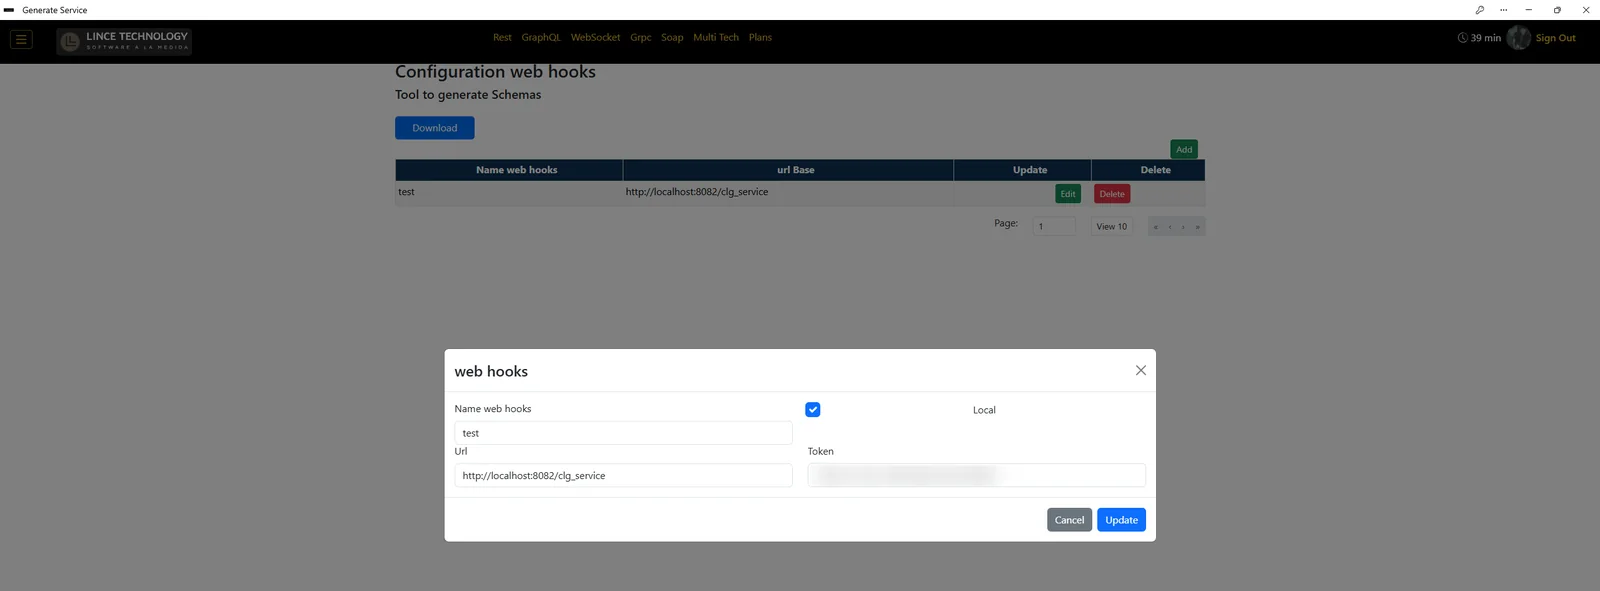
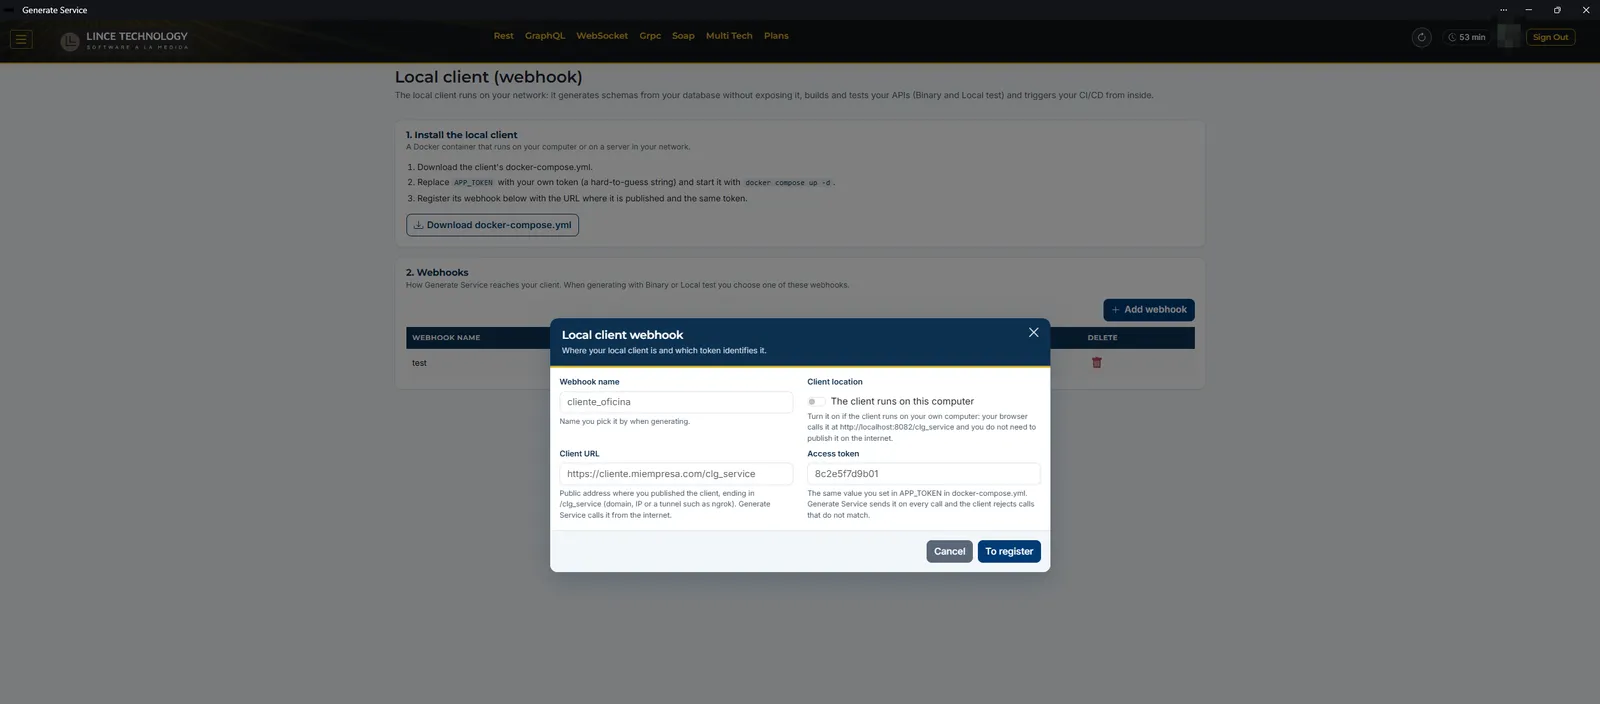
Guía: capturas de la interfaz nueva de Generate Service
- Capturas nuevas en Primeros pasos, Crear cuenta, Tu primera API REST, Datasources, Cliente local,
  Variables de entorno, CI/CD, Modos de generación, Créditos y planes, Eventos y Multi Tech.
- Multi Tech: una captura por paso del asistente y la lista de métodos.
- Créditos y planes: factura firmada, Mis facturas y verificación en /verificar.
- Textos al día con la interfaz: Cotizar, Procedimientos → Editar, las siete entregas
  (Binario, Prueba local, Solo esquemas, Código fuente, CI/CD…), Cliente local (webhook)
  y las acciones de Operaciones.
- Datos sensibles ocultos en las capturas: foto de perfil y correo del receptor de la factura.

Changed region(s): [[0.25, 0.3655, 0.75, 0.9442], [0.0, 0.0, 1.0, 0.3655]]

diff --git a/app/components/guia/guiaData.js b/app/components/guia/guiaData.js
@@ -37,6 +37,7 @@ export const capitulos = [
         bloques: [
           { p: "Generate Service convierte la lógica que ya tienes en tu base de datos —procedimientos, funciones, packages y queries— en **microservicios Spring Boot listos para producción**. Tú eliges qué publicar, en qué tecnología y cómo quieres recibirlo; la plataforma escribe el proyecto completo por ti." },
           { flujo: ["Tu base de datos o tu esquema", "Eliges qué publicar", "Generate Service genera", "Recibes tu microservicio"] },
+          { img: "/images/guia/portada.webp", alt: "Portada de Generate Service: de tus fuentes de datos a APIs listas" },
         ],
       },
       {
@@ -94,7 +95,7 @@ export const capitulos = [
         bloques: [
           { p: "Entra a [generate-service.com](https://generate-service.com) y elige cómo iniciar sesión:" },
           { lista: ["**Google** o **GitHub**: un clic, sin formularios.", "**Correo electrónico**: completa tus datos y confirma el código que te llega por correo."] },
-          { img: "/images/login.png", alt: "Pantalla de inicio de sesión de Generate Service" },
+          { img: "/images/guia/login.webp", alt: "Ventana de inicio de sesión de Generate Service" },
         ],
       },
       {
@@ -161,31 +162,34 @@ export const capitulos = [
             ["Origen", "DATABASE", "DATABASE usa un datasource; API_SOURCE usa un archivo de esquema."],
             ["Tipo de base de datos", "MariaDB", "Motor de tu base."],
           ] } },
-          { img: "/images/src/generate-api-rest.png", alt: "Formulario del módulo REST con los datos del proyecto" },
+          { img: "/images/guia/generate-api-rest.webp", alt: "Módulo REST: proyecto, métodos a generar y panel «Cómo recibir tu API»" },
         ],
       },
       {
         titulo: "3. Elige el origen: datasource o archivo de esquema",
         bloques: [
-          { p: "**Con datasource:** selecciona la conexión y el esquema (owner), y en **choose procedure** pulsa **Edit**. Verás un árbol con packages, procedimientos y funciones." },
-          { img: "/images/src/SelectPLSql.png", alt: "Árbol de selección de procedimientos y funciones" },
-          { p: "**Con archivo de esquema:** elige API_SOURCE y adjunta el archivo. El proyecto de prueba ya trae esquemas listos en la carpeta `schemas/` de cada motor, o puedes generarlos con el cliente local." },
-          { img: "/images/test/UploadFileSchemmaInGenerateService.png", alt: "Adjuntar un archivo de esquema en Generate Service" },
+          { p: "**Con datasource:** selecciona la conexión y el esquema (owner), y en **Procedimientos** pulsa **Editar**. Verás un árbol con packages, procedimientos y funciones." },
+          { img: "/images/guia/elegir-procedimiento.webp", alt: "Árbol de selección de procedimientos y funciones" },
+          { p: "**Con archivo de esquema:** elige API_SOURCE, pulsa el ícono de agregar y, en la ventana **Origen de datos del método**, sube el archivo con **Subir archivo**. El proyecto de prueba ya trae esquemas listos en la carpeta `schemas/` de cada motor, o puedes generarlos con el cliente local." },
+          { img: "/images/guia/origen-esquema.webp", alt: "Ventana Origen de datos del método con la carga de un archivo de esquema" },
         ],
       },
       {
         titulo: "4. Selecciona qué publicar",
         bloques: [
-          { p: "Cada objeto que marques se convierte en un endpoint. También puedes escribir tus propias queries con parámetros:" },
+          { p: "Cada objeto que marques se convierte en un endpoint. También puedes escribir tus propias queries con **Agregar query**: una sola sentencia `SELECT`, `INSERT`, `UPDATE` o `DELETE` por método, con los parámetros escritos como `:nombre`:" },
           { codigo: "SELECT last_name, first_name FROM owner.person WHERE email = :param_email" },
-          { img: "/images/test/RegisterEndpointRestByProcesdure.png", alt: "Endpoints registrados a partir de procedimientos" },
+          { img: "/images/guia/agregar-query.webp", alt: "Agregar un método desde una consulta SQL, con plantillas y el formato de la consulta" },
+          { p: "Las queries agregadas quedan en una lista dentro de la ventana: pasa el cursor sobre una para ver su SQL, o quítala con la papelera. Pasan a la tabla junto con los procedimientos al pulsar **Agregar**." },
+          { img: "/images/guia/query-agregada.webp", alt: "Lista de queries agregadas con su tipo" },
+          { img: "/images/guia/metodos-a-generar.webp", alt: "Tabla Métodos a generar con los procedimientos elegidos" },
         ],
       },
       {
         titulo: "5. Elige el modo y genera",
         bloques: [
-          { p: "Debajo de la tabla eliges el modo: **Build, Test, Schema, Src, devops, devops_test o devops_src**. Marca **Test** para que tu cliente local compile y levante la API en tu máquina (necesitas el [cliente local configurado](/generate-service/guia/cliente-local/)). Si prefieres el código, marca **Src**; si quieres el ejecutable, **Build**. Al pasar el mouse sobre el botón verás cuántos créditos consumirá." },
-          { img: "/images/test/SelectWebHookAndSendGenerate-service-client.png", alt: "Seleccionar el webhook del cliente local y generar" },
+          { p: "En **Cómo recibir tu API** eliges la entrega: **Binario, Prueba local, Solo esquemas, Código fuente, CI/CD, CI/CD + prueba o CI/CD + código**; al pasar el cursor sobre cada una ves qué entrega y, sobre el botón, los créditos. Marca **Prueba local** para que tu cliente local compile y levante la API en tu máquina (necesitas el [cliente local configurado](/generate-service/guia/cliente-local/)). Si prefieres el código, marca **Src**; si quieres el ejecutable, **Build**. Al pasar el mouse sobre el botón verás cuántos créditos consumirá." },
+          { img: "/images/guia/modo-entrega.webp", alt: "Panel Cómo recibir tu API con las siete entregas" },
         ],
       },
       {
@@ -224,18 +228,17 @@ export const capitulos = [
             ["Service Name / base de datos", "En Oracle, el *service name*; en los demás motores, el nombre de la base."],
             ["Esquemas", "Los esquemas (owners) que quieres explorar."],
           ] } },
-          { img: "/images/config/DatasourceConfig.png", alt: "Formulario de configuración de un datasource" },
+          { img: "/images/guia/config-datasource.webp", alt: "Formulario de un datasource Oracle con la ayuda de cada campo" },
         ],
       },
       {
         titulo: "Prueba y guarda",
         bloques: [
           { pasos: [
-            { titulo: "Prueba la conexión", texto: "Usa **Prueba de conexión**. Si es correcta, verás «Conexión exitosa»." },
+            { titulo: "Prueba la conexión", texto: "Usa **Probar conexión**. Si es correcta, verás «Conexión exitosa» y la lista de esquemas disponibles." },
             { titulo: "Elige los esquemas", texto: "Selecciona los esquemas que quieres usar al generar." },
             { titulo: "Guarda", texto: "El datasource queda disponible en todos los módulos de generación." },
           ] },
-          { img: "/images/guia/datasource-conexion-exitosa.webp", alt: "Datasource Oracle con la prueba de conexión exitosa y la lista de esquemas" },
           { nota: "Puedes registrar varios datasources (desarrollo, pruebas, distintos motores) y elegir cuál usar en cada generación.", tipo: "info" },
         ],
       },
@@ -271,8 +274,8 @@ export const capitulos = [
       {
         titulo: "1. Instala el cliente",
         bloques: [
-          { p: "En la plataforma, menú lateral → **Configuraciones** → **Client webhook**, pulsa **Download** («Tool to generate Schemas») para descargar el `docker-compose.yml` del cliente, y levántalo:" },
-          { img: "/images/test/DownLoadClientGenerateService.png", alt: "Descarga del cliente local desde la plataforma" },
+          { p: "En la plataforma, menú lateral → **Configuraciones** → **Cliente local (webhook)**, pulsa **Descargar docker-compose.yml** y levanta el cliente:" },
+          { img: "/images/guia/cliente-instalar.webp", alt: "Instalación del cliente local: los tres pasos y la descarga del docker-compose.yml" },
           { codigo: "docker compose up -d" },
           { img: "/images/test/RunClientGenerateService.png", alt: "Cliente local en ejecución" },
         ],
@@ -302,7 +305,7 @@ export const capitulos = [
             ["URL", "Dirección del cliente."],
             ["Token", "Clave que valida que los envíos vienen de tu cuenta. Trátala como una contraseña."],
           ] } },
-          { img: "/images/guia/config-client-webhook.webp", alt: "Registro del webhook del cliente local (token oculto)" },
+          { img: "/images/guia/config-client-webhook.webp", alt: "Página del cliente local: instalación, webhooks y el registro de un webhook" },
         ],
       },
       {
@@ -442,10 +445,10 @@ export const capitulos = [
             ["Nombre", "Nombre de la variable, por ejemplo `DB_MARIADB_HOST`."],
             ["Valor", "El valor que quieres usar."],
             ["Descripción", "Para qué sirve, como referencia."],
-            ["**Activo**", "Escribe el valor en el archivo `.env` del proyecto generado."],
-            ["**Propiedad activa**", "Usa el valor como predeterminado dentro de `application.properties`."],
+            ["**En el .env**", "Escribe el valor en el archivo `.env` del proyecto generado. Es lo recomendado, sobre todo para contraseñas."],
+            ["**En el código**", "Usa el valor como predeterminado dentro de `application.properties`. Evítalo con contraseñas o tokens."],
           ] } },
-          { img: "/images/guia/variables-entorno.webp", alt: "Variables de entorno con las columnas Activo y Propiedad activa" },
+          { img: "/images/guia/variables-entorno.webp", alt: "Variables de entorno con la explicación de cómo se aplican" },
         ],
       },
       {
@@ -495,7 +498,9 @@ export const capitulos = [
             ["Parámetros", "Variables adicionales que tu pipeline espera."],
             ["Webhook (opcional)", "Si tu CI/CD es interno, el cliente local hace de puente."],
           ] } },
-          { img: "/images/ci-cd/ConsifigCI-CD.png", alt: "Configuración de la integración de CI/CD" },
+          { img: "/images/guia/config-ci-cd.webp", alt: "Configuración de una integración de CI/CD: pipeline, autenticación, parámetros y webhook" },
+          { p: "Las integraciones guardadas quedan en la lista; al generar con CI/CD eliges una de ellas." },
+          { img: "/images/guia/ci-cd-lista.webp", alt: "Lista de integraciones de CI/CD configuradas" },
         ],
       },
       {
@@ -522,8 +527,8 @@ export const capitulos = [
       {
         titulo: "3. Genera y despliega",
         bloques: [
-          { p: "Al generar, elige el modo **DEVOPS** (despliegue), **DEVOPS_SRC** (enviar el código a tu pipeline) o **DEVOPS_TEST** (despliegue temporal para pruebas)." },
-          { img: "/images/ci-cd/GenerateApiAndSendCI-CD.png", alt: "Generar una API y enviarla al CI/CD" },
+          { p: "Al generar, elige la entrega **CI/CD** (despliegue), **CI/CD + código** (enviar el código a tu pipeline) o **CI/CD + prueba** (despliegue temporal para pruebas), pulsa **Enviar a CI/CD** y elige la integración." },
+          { img: "/images/guia/ci-cd-enviar.webp", alt: "Elegir la integración continua y enviar al pipeline" },
           { img: "/images/ci-cd/FinshPipeline.png", alt: "Pipeline terminado con todos los pasos en verde" },
           { p: "En el flujo de ejemplo, los secretos se cifran en el repositorio de manifiestos y **ArgoCD** sincroniza y despliega en Kubernetes." },
           { img: "/images/ci-cd/encriptEnviromnetforSeccrets.png", alt: "Secretos cifrados en el repositorio de manifiestos" },
@@ -597,14 +602,14 @@ export const capitulos = [
       {
         titulo: "Esquemas: contratos reutilizables",
         bloques: [
-          { p: "Con **Schema** descargas un `.zip` con los esquemas de los endpoints seleccionados. Puedes adjuntarlos después como origen **API_SOURCE** para generar nuevos servicios sin volver a conectarte a la base." },
-          { img: "/images/guia/generate-schema.webp", alt: "Modo Schema: descarga de los esquemas del proyecto" },
+          { p: "Con **Solo esquemas** descargas un `.zip` con los esquemas de los endpoints seleccionados. Puedes adjuntarlos después como origen **API_SOURCE** para generar nuevos servicios sin volver a conectarte a la base." },
+          { img: "/images/guia/modo-entrega.webp", alt: "Panel Cómo recibir tu API: Solo esquemas, Código fuente, Binario y las entregas a CI/CD" },
         ],
       },
       {
         titulo: "Código fuente: tuyo para extender",
         bloques: [
-          { img: "/images/src/DownLoadSourceCode.png", alt: "Descarga del código fuente" },
+          { img: "/images/guia/descargar-codigo.webp", alt: "Descarga del código fuente del proyecto generado" },
           { img: "/images/src/EdirSourceCode.png", alt: "Código fuente abierto en el editor" },
           { img: "/images/src/CompileSorceCode.png", alt: "Compilación del código fuente" },
         ],
@@ -612,7 +617,7 @@ export const capitulos = [
       {
         titulo: "Binario: listo para ejecutar",
         bloques: [
-          { img: "/images/build/GenerateApiBinaryOptionBuild.png", alt: "Opción BUILD al generar" },
+          { img: "/images/guia/modo-binario.webp", alt: "Entrega Binario elegida al generar" },
           { img: "/images/build/EstructruaArtefactJar.png", alt: "Estructura del artefacto generado" },
         ],
       },
@@ -638,7 +643,7 @@ export const capitulos = [
           ] },
           { p: "La tabla completa de créditos por tecnología está en la página **Plans**:" },
           { img: "/images/guia/plans2.webp", alt: "Créditos requeridos por tecnología y endpoint" },
-          { p: "Antes de generar, pasa el mouse sobre el botón **generate Api**: verás la tecnología, los endpoints y los créditos que consumirá esa generación." },
+          { p: "Antes de generar, pasa el mouse sobre el botón **Generar API**: verás la tecnología, los endpoints y los créditos que consumirá esa generación." },
           { img: "/images/guia/tooltips-credits-consume.webp", alt: "Resumen de créditos antes de generar una prueba" },
         ],
       },
@@ -646,20 +651,22 @@ export const capitulos = [
         titulo: "Qué define el plan",
         bloques: [
           { p: "El plan define **cuánto tiempo funciona cada API** que generas, contado desde el día en que la generas: 3, 6, 9 o 12 meses, o permanente. Los planes más largos incluyen un descuento por crédito. Te avisamos antes de que termine la vigencia, para que la generes de nuevo o pases al plan permanente." },
-          { nota: "Los precios vigentes se muestran en la página **Plans** de la plataforma. En las imágenes de esta guía están ocultos.", tipo: "info" },
+          { nota: "Los precios vigentes se muestran siempre en la página **Plans** de la plataforma; los de las imágenes de esta guía son de referencia.", tipo: "info" },
         ],
       },
       {
         titulo: "Comprar créditos",
         bloques: [
           { pasos: [
-            { titulo: "Cotiza", texto: "Menú superior → **Plans**. Elige el plan y la cantidad de créditos y pulsa **Calculate quote**: verás el detalle, el ITBMS (7 %, solo para compras desde Panamá) y hasta cuándo funcionarán tus APIs.", img: "/images/guia/plans.webp" },
-            { titulo: "Paga con PayPal", texto: "Con tu cuenta de PayPal o con **tarjeta de débito o crédito**, sin salir de la plataforma.", img: "/images/guia/paypal.webp" },
-            { titulo: "Créditos cargados", texto: "Al confirmarse el pago, los créditos se cargan en tu cuenta y recibes la confirmación.", img: "/images/guia/paypal-recive.webp" },
-            { titulo: "Tu factura", texto: "La plataforma te avisa cuando tu factura está lista, con el enlace para verla y descargarla.", img: "/images/guia/paypal-invoice.webp" },
+            { titulo: "Cotiza", texto: "Menú superior → **Plans**. Elige el plan y la cantidad de créditos y pulsa **Cotizar** (la primera vez te pide tus datos de facturación): verás el detalle, el ITBMS (7 %, solo para compras desde Panamá) y hasta cuándo funcionarán tus APIs. Si cambias el plan o la cantidad, el total se recalcula solo.", img: "/images/guia/plans.webp" },
+            { titulo: "Paga con PayPal", texto: "Con tu cuenta de PayPal o con **tarjeta de débito o crédito**, sin salir de la plataforma." },
+            { titulo: "Créditos cargados", texto: "Al confirmarse el pago, los créditos se cargan en tu cuenta y recibes la confirmación." },
+            { titulo: "Tu factura", texto: "Recibes la factura por correo y queda en menú lateral → **Administración** → **Mis facturas**, donde puedes descargarla en PDF.", img: "/images/guia/mis-facturas.webp" },
           ] },
-          { p: "La factura incluye el detalle de la compra y el ITBMS:" },
-          { img: "/images/guia/paypal-factura.webp", alt: "Factura de la compra de créditos (datos personales y montos ocultos)" },
+          { p: "La factura incluye el detalle de la compra, el ITBMS y la **firma digital de Lince Technology**, con un código QR y un código de verificación:" },
+          { img: "/images/guia/factura.webp", alt: "Factura firmada de la compra de créditos (datos del cliente de ejemplo)" },
+          { p: "Para comprobar que una factura es auténtica, escanea su QR o entra a [generate-service.com/verificar](https://generate-service.com/verificar): puedes escribir el código o subir el PDF. Cualquier cambio en el documento se detecta." },
+          { img: "/images/guia/verificar-factura.webp", alt: "Página pública para verificar una factura" },
           { nota: "¿Tu empresa necesita un paquete corporativo con orden de compra y factura? Escríbenos desde la página Plans y lo diseñamos a tu medida.", tipo: "info" },
         ],
       },
@@ -681,17 +688,17 @@ export const capitulos = [
       {
         titulo: "Eventos: tu historial",
         bloques: [
-          { p: "Menú lateral → **Administración** → **Eventos**. Cada generación del mes queda registrada con el nombre del proyecto, el origen, el tipo de evento (`GENERATE_TEST`, `GENERATE_SCHEMA`, `GENERATE_SOURCE`…), el tipo de API, el tipo de contenedor, la fecha y la cantidad de recursos publicados." },
-          { p: "Arriba verás los totales del mes: recursos en código fuente, en binario, en esquemas, en CI/CD y en pruebas. Puedes buscar y cambiar de mes." },
+          { p: "Menú lateral → **Administración** → **Eventos**. Cada generación del mes queda registrada con el nombre del proyecto, el origen, el tipo de entrega (código fuente, binario, prueba local, solo esquemas o CI/CD), la tecnología, el servidor, la fecha y la cantidad de endpoints. Pulsa el número de **Endpoints** para ver el detalle de cada generación." },
+          { p: "Arriba verás los totales del mes por tipo de entrega; pasa el cursor sobre cada uno para ver qué cuenta. Puedes buscar y cambiar de mes." },
           { img: "/images/guia/eventos.webp", alt: "Eventos del mes con totales por tipo" },
         ],
       },
       {
         titulo: "Operaciones generadas: volver a procesar",
         bloques: [
-          { p: "Menú lateral → **Administración** → **Operaciones generadas** muestra cada transacción con su webhook, el evento, la fecha y cuántas veces se reintentó. Si una descarga o un envío a tu cliente se interrumpe, pulsa **process** para volver a procesarla, **sin consumir créditos** adicionales." },
+          { p: "Menú lateral → **Administración** → **Operaciones generadas** muestra cada transacción con su webhook, el evento, la fecha y cuántas veces se reintentó. Si una descarga o un envío a tu cliente se interrumpe, vuelve a procesarla **sin consumir créditos** adicionales: **Descargar** para código fuente y esquemas, **Reenviar al cliente** para binario y prueba local, y **Disparar CI/CD** para las integraciones." },
           { nota: "Cada operación admite hasta **5 entregas** (la primera descarga y 4 reintentos) durante los **5 días** siguientes a la generación.", tipo: "info" },
-          { img: "/images/guia/operaciones-reintentar.webp", alt: "Operaciones generadas con el contador de reintentos y el botón process" },
+          { img: "/images/guia/operaciones-reintentar.webp", alt: "Operaciones generadas con el contador de reintentos y la acción de cada fila" },
         ],
       },
     ],
@@ -950,18 +957,26 @@ export const capitulos = [
           { p: "**Multi Tech** (menú superior) es el módulo para proyectos con **varios métodos y varias tecnologías**: por ejemplo, un Job que consulta una API y deja un archivo en SFTP, y un listener que toma ese archivo, arma un PDF y lo envía por correo. Cada método puede leer de una base de datos o de otra API (REST, SOAP, GraphQL o gRPC) y enviar su resultado a otro destino." },
           { p: "También es el módulo para **orquestar pasos dentro del mismo proyecto**: encadenarlos uno detrás de otro o ejecutarlos en paralelo y reunir sus resultados." },
           { nota: "Si tu API publica procedimientos de una sola tecnología, los módulos REST, GraphQL, WebSocket, gRPC o SOAP son más directos. Multi Tech es el módulo más completo y el de mayor consumo de créditos.", tipo: "info" },
+          { img: "/images/guia/multitech.webp", alt: "Módulo Multi Tech con el asistente para agregar un método" },
         ],
       },
       {
         titulo: "Los pasos del asistente",
         bloques: [
           { pasos: [
-            { titulo: "Método", texto: "**Nombre del método**, **tipo de tecnología** (REST, colas, archivos, SFTP, Job, Quartz…) y **tipo de fuente**: base de datos u otra API. Aquí también eliges si el método **se integra** con otro y si **envía** su resultado a un destino (**Enviar mensaje asíncrono**)." },
-            { titulo: "Integración (si la activaste)", texto: "Eliges el **tipo de integración**, **PIPELINE** o **AGGREGATED**, y el **método de integración**. Más abajo se explica cada uno." },
-            { titulo: "Fuente", texto: "Si la fuente es una base de datos, eliges el procedimiento, la función o la query. Si es otra API, cargas su esquema. Con **Request** en el envío, este paso se salta (ver más abajo)." },
-            { titulo: "Contrato y parámetros", texto: "Formato del archivo de entrada, autenticación, ruta remota y los datos del destino, según la tecnología." },
-            { titulo: "Resumen", texto: "Revisas el método y lo **insertas** en la lista. Repite los pasos para cada método y genera el proyecto completo." },
+            { titulo: "Método", texto: "**Nombre del método**, **tipo de tecnología** (REST, colas, archivos, SFTP, Job, Quartz…) y **tipo de fuente**: base de datos u otra API. Aquí también eliges si el método **se integra** con otro: al elegir **Sí** aparece el paso **Envío**.", img: "/images/guia/multitech-1.webp" },
+            { titulo: "Envío (si lo activaste)", texto: "A dónde envía el método su resultado (otro servicio, una cola, un archivo, un correo o un Service Activator), el formato y si envía el **Request** o el **Response**. La ventana explica qué se envía en cada caso.", img: "/images/guia/multitech-2.webp" },
+            { titulo: "Origen", texto: "Si la fuente es una base de datos, eliges el motor y si usas un **datasource configurado** o **subes un archivo de esquema**. Si es otra API, indicas su endpoint, cómo se envían los datos, la autenticación y los encabezados. Con **Request** en el envío, este paso se salta (ver más abajo).", img: "/images/guia/multitech-3.webp" },
+            { titulo: "Detalle del origen", texto: "El procedimiento, la función o la query del datasource, o el archivo de esquema que subes.", img: "/images/guia/multitech-4.webp" },
+            { titulo: "Resumen", texto: "Revisas el método y lo **registras** en la lista. Repite los pasos para cada método y genera el proyecto completo.", img: "/images/guia/multitech-5.webp" },
           ] },
+        ],
+      },
+      {
+        titulo: "La lista de métodos",
+        bloques: [
+          { p: "Cada método registrado queda en la tabla **Métodos** con su tecnología, su origen y su tipo de envío. Abajo eliges cómo recibir la API; el tooltip del botón muestra los créditos que consumirá." },
+          { img: "/images/guia/multitech-fin.webp", alt: "Lista de métodos de Multi Tech y el panel «Cómo recibir tu API»" },
         ],
       },
       {
